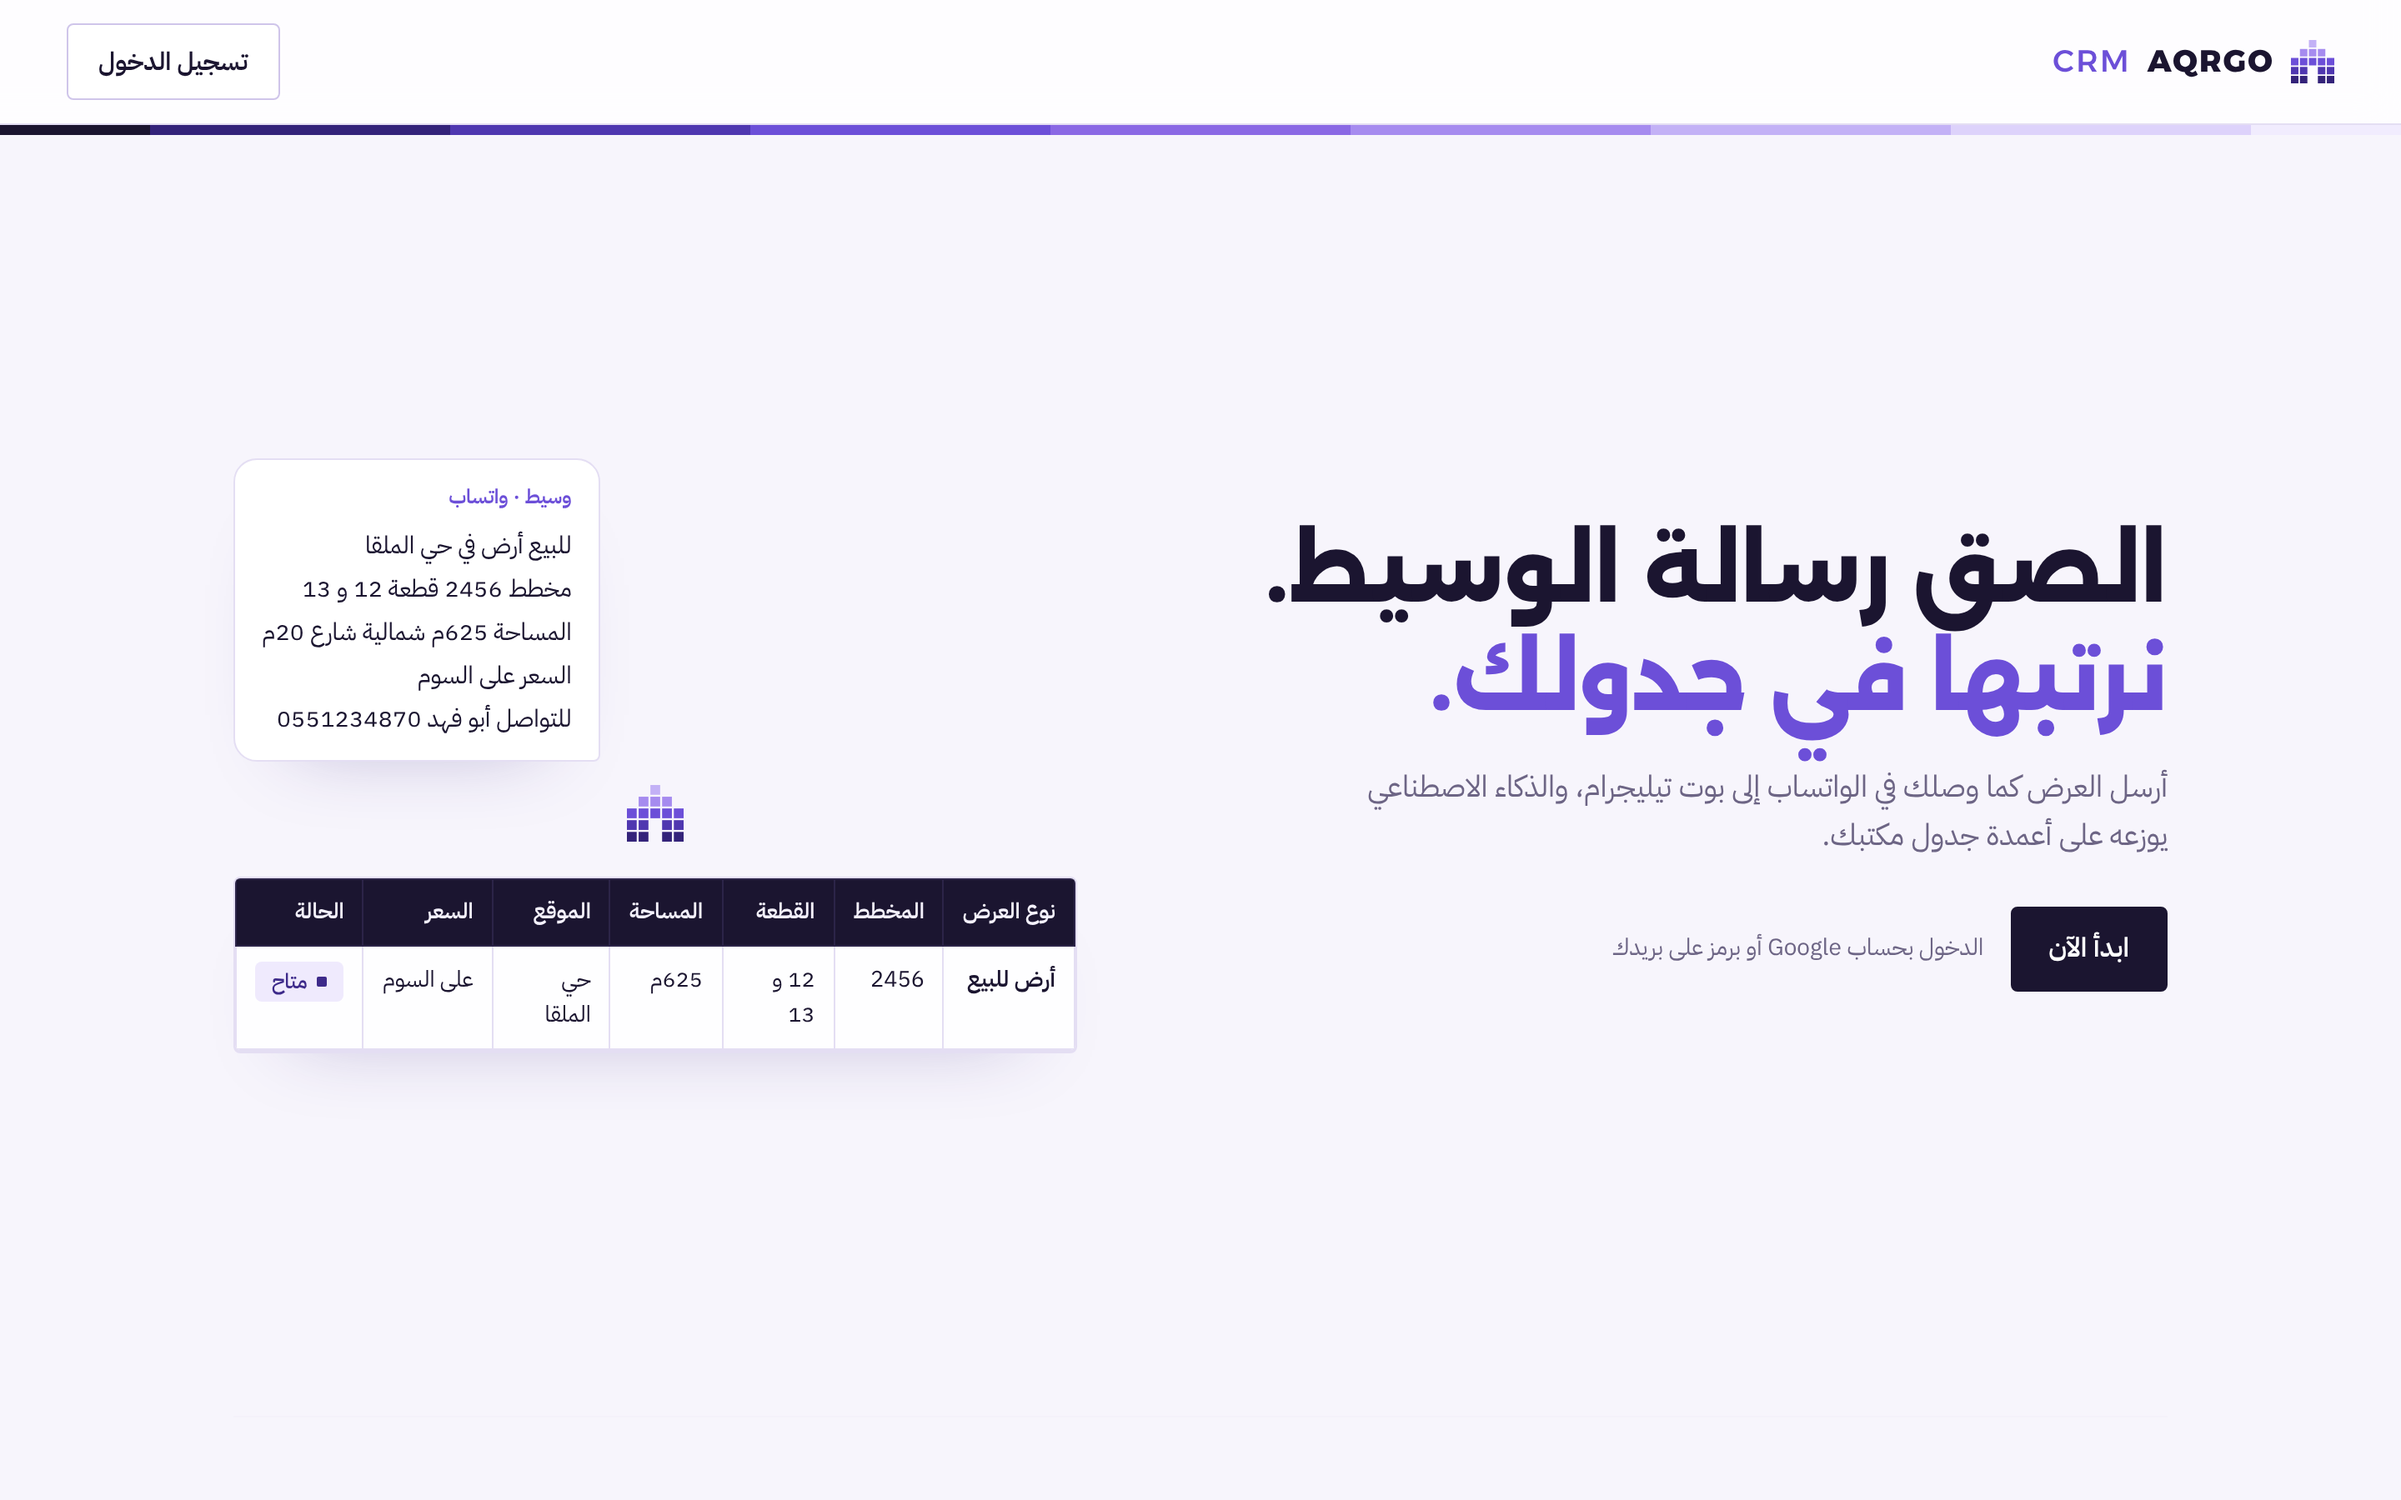
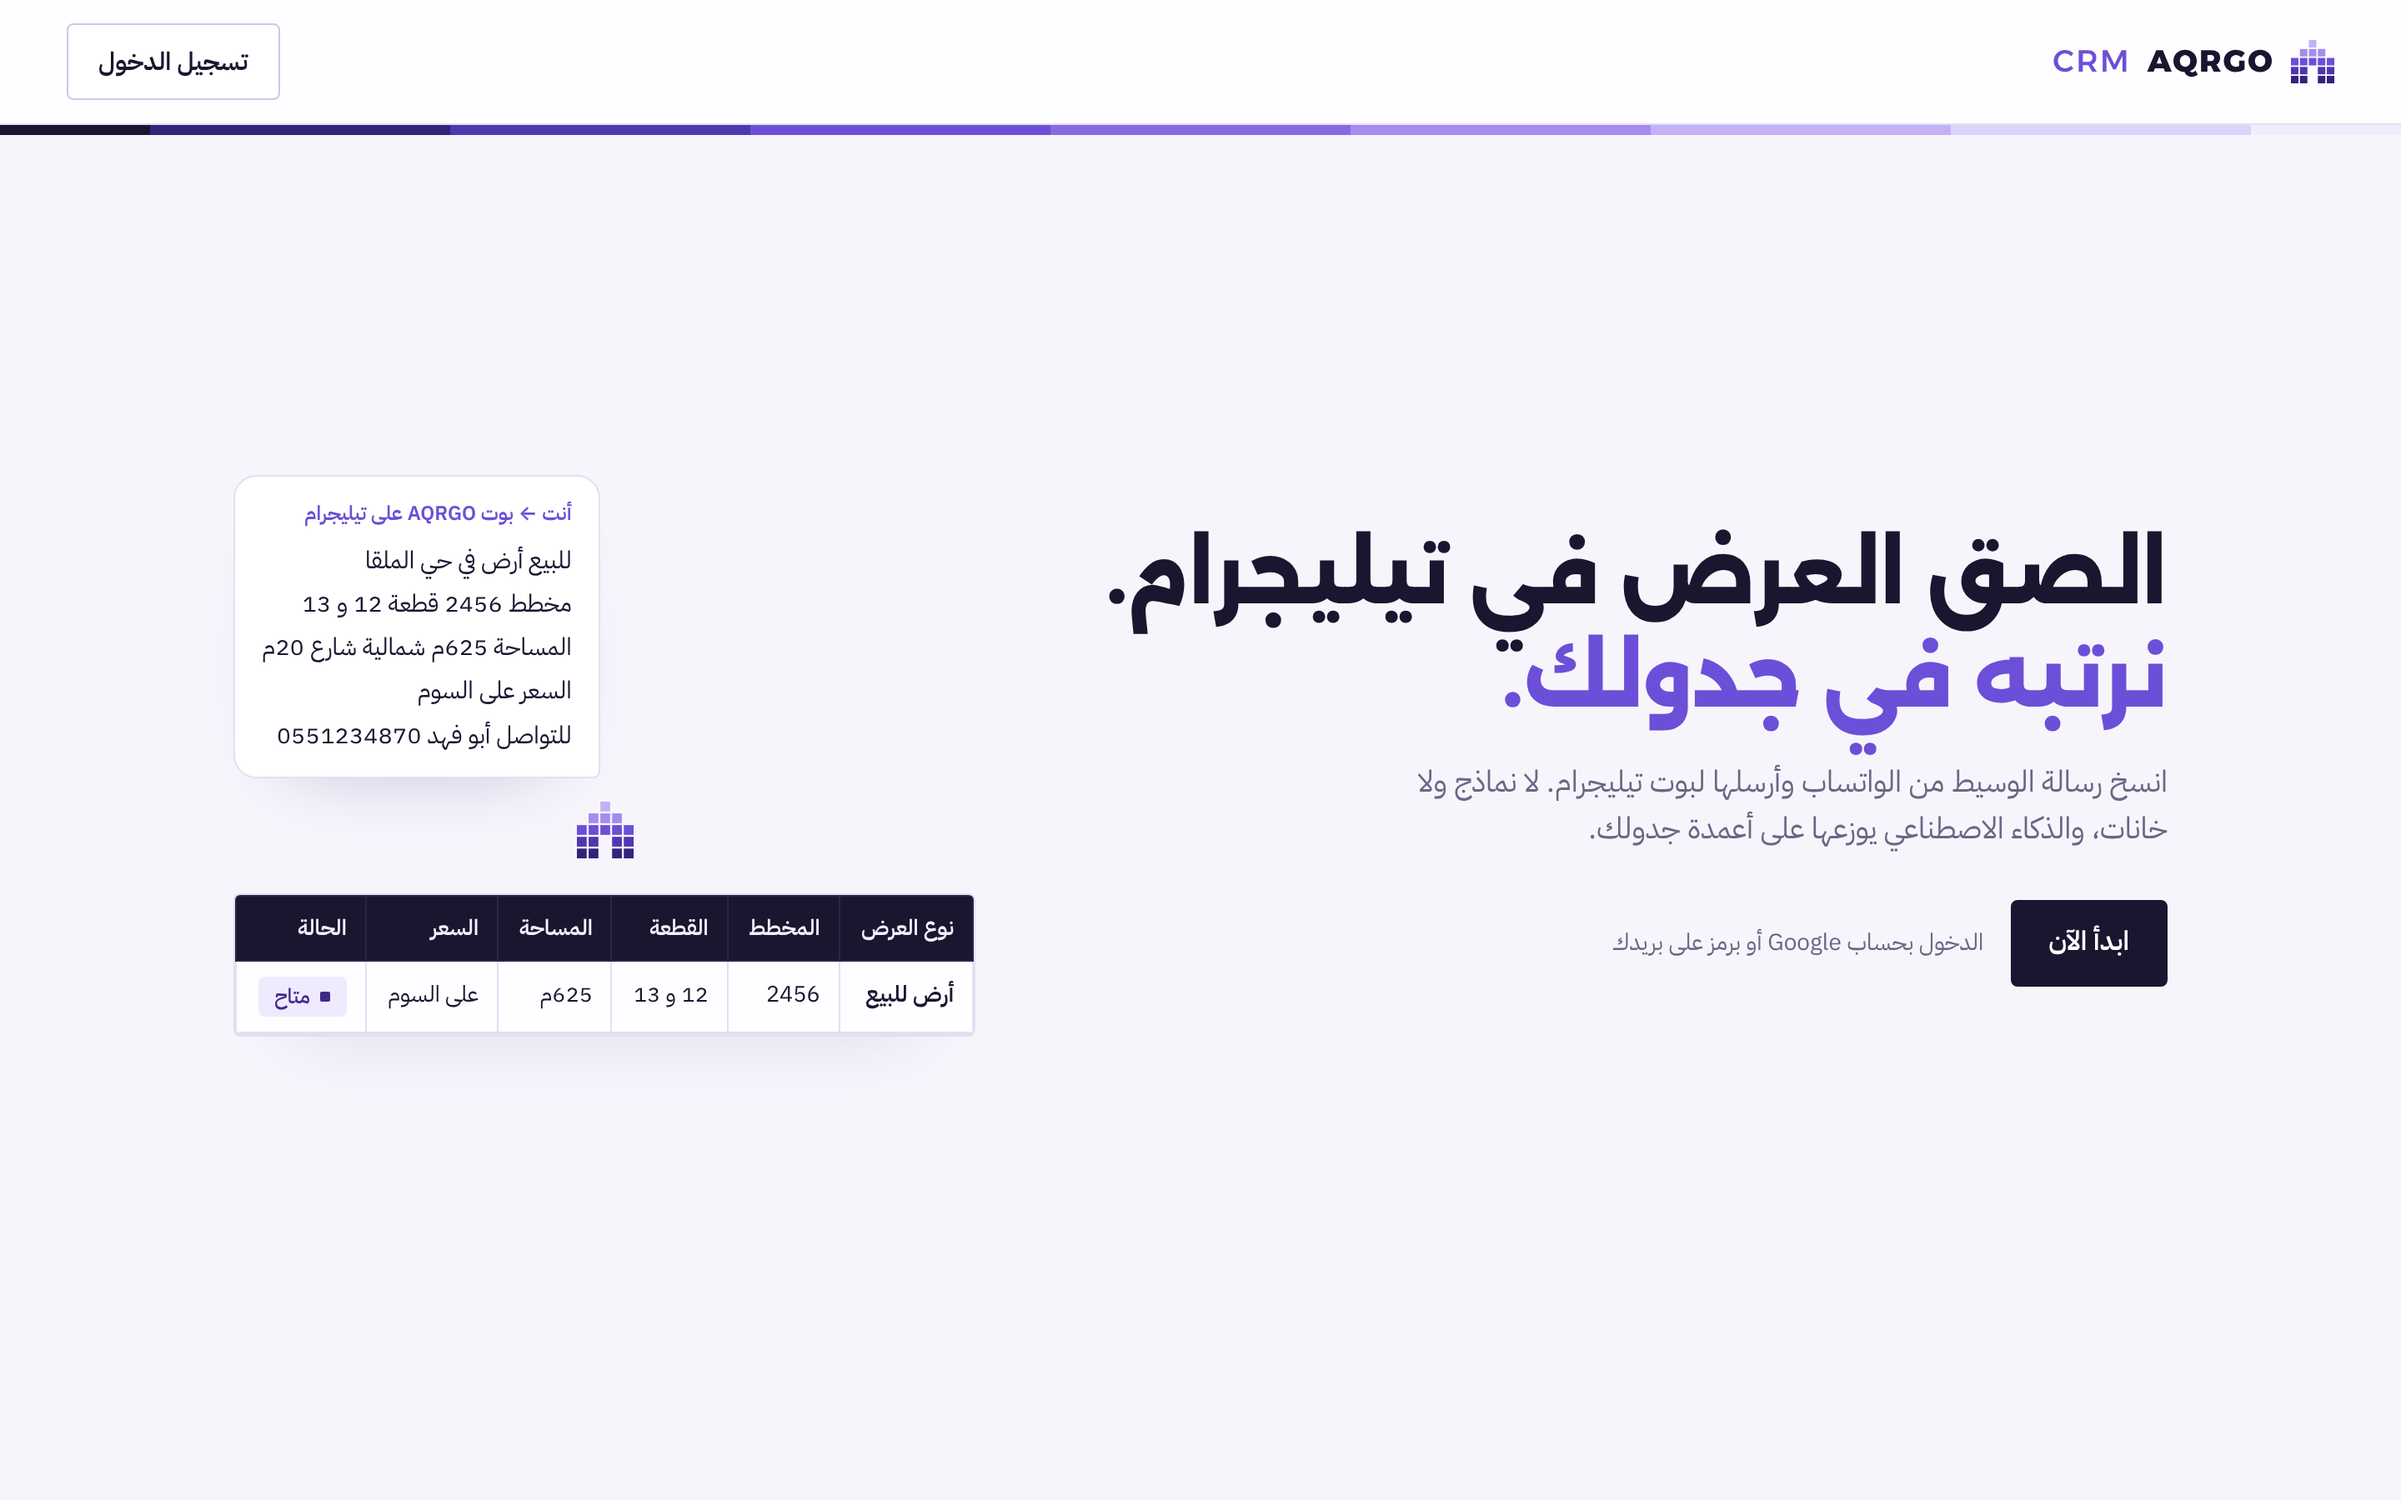
Landing page: lead with Telegram and how easy it is
Headline now names Telegram, and a new section shows a chat with the bot
next to four plain reasons it is easy (one message, understands dialect,
you confirm before saving, works from your phone).

Claude-Session: https://claude.ai/code/session_018Y5sV4ySWC7BHdGifjAdk6

diff --git a/crates/auth/templates/landing.html b/crates/auth/templates/landing.html
@@ -14,8 +14,8 @@
 {% block content %}
 <section class="l-hero">
   <div class="l-hero-copy">
-    <h1>الصق رسالة الوسيط.<br><em>نرتبها في جدولك.</em></h1>
-    <p class="lede">أرسل العرض كما وصلك في الواتساب إلى بوت تيليجرام، والذكاء الاصطناعي يوزعه على أعمدة جدول مكتبك.</p>
+    <h1>الصق العرض في تيليجرام.<br><em>نرتبه في جدولك.</em></h1>
+    <p class="lede">انسخ رسالة الوسيط من الواتساب وأرسلها لبوت تيليجرام. لا نماذج ولا خانات، والذكاء الاصطناعي يوزعها على أعمدة جدولك.</p>
     <div class="l-cta">
       <a class="btn primary big" href="/login">ابدأ الآن</a>
       <span class="muted">الدخول بحساب Google أو برمز على بريدك</span>
@@ -24,7 +24,7 @@
 
   <div class="l-demo" aria-label="مثال: رسالة وسيط تتحول إلى صف في الجدول">
     <div class="bubble">
-      <span class="bubble-from">وسيط · واتساب</span>
+      <span class="bubble-from">أنت ← بوت AQRGO على تيليجرام</span>
       للبيع أرض في حي الملقا<br>
       مخطط 2456 قطعة 12 و 13<br>
       المساحة 625م شمالية شارع 20م<br>
@@ -34,19 +34,42 @@
     <div class="demo-arrow" aria-hidden="true">{% include "logo_mark.html" %}</div>
     <div class="sheet demo-sheet">
       <table class="grid">
-        <thead><tr><th>نوع العرض</th><th>المخطط</th><th>القطعة</th><th>المساحة</th><th>الموقع</th><th>السعر</th><th>الحالة</th></tr></thead>
+        <thead><tr><th>نوع العرض</th><th>المخطط</th><th>القطعة</th><th>المساحة</th><th>السعر</th><th>الحالة</th></tr></thead>
         <tbody><tr>
-          <td class="strong">أرض للبيع</td><td>2456</td><td>12 و 13</td><td class="nowrap">625م</td><td>حي الملقا</td><td class="nowrap">على السوم</td><td><span class="pill available">متاح</span></td>
+          <td class="strong">أرض للبيع</td><td>2456</td><td>12 و 13</td><td class="nowrap">625م</td><td class="nowrap">على السوم</td><td><span class="pill available">متاح</span></td>
         </tr></tbody>
       </table>
     </div>
   </div>
 </section>
 
+<section class="l-tg reveal">
+  <div class="l-tg-copy">
+    <h2>مكتبك كله داخل تيليجرام</h2>
+    <p class="lede">التطبيق الذي تستخدمه كل يوم صار مدخل جدولك. لا برنامج تثبته ولا شيء تتعلمه.</p>
+    <ul class="ticks">
+      <li><b>رسالة واحدة تكفي.</b> الصقها كما هي، حتى لو فيها أكثر من قطعة أو عمارة.</li>
+      <li><b>يفهم العامية.</b> «على السوم» و«دورين ونص» و«مباشر مع الوكيل» تدخل في أماكنها.</li>
+      <li><b>أنت صاحب القرار.</b> البوت يعرض كل عرض مرتباً قبل حفظه، فتؤكد أو تعدّل بضغطة.</li>
+      <li><b>من جوالك في أي مكان.</b> في السيارة أو في الموقع، والجدول على الموقع يتحدث فوراً.</li>
+    </ul>
+    <a class="btn primary big" href="/login">ابدأ الآن</a>
+  </div>
+  <div class="tg-phone" aria-label="مثال لمحادثة مع بوت تيليجرام">
+    <div class="tg-head">{% include "logo_mark.html" %}<div><b>AQRGO</b><small>بوت</small></div></div>
+    <div class="tg-msg me">عمارة للبيع حي الخليج 7 شقق دورين ونص مصعد، دخل 600 ألف، السعر 7.2 مليون</div>
+    <div class="tg-msg bot">
+      <b>عمارة للبيع</b><br>الموقع: حي الخليج<br>الأدوار: دورين ونص · الوحدات: 7 شقق<br>الدخل: 600 ألف · السعر: 7.2 مليون
+      <div class="tg-keys"><span>✓ حفظ</span><span>تعديل</span></div>
+    </div>
+    <div class="tg-msg bot small">تم الحفظ في جدولك ✓</div>
+  </div>
+</section>
+
 <section class="l-how reveal">
   <h2>من رسالة إلى صف في ثلاث خطوات</h2>
   <ol class="steps">
-    <li><h3>أرسل</h3><p>الصق رسالة العرض في بوت تيليجرام، حتى لو فيها أكثر من قطعة.</p></li>
+    <li><h3>أرسل</h3><p>اربط حسابك بتيليجرام مرة واحدة، ثم الصق أي عرض في البوت.</p></li>
     <li><h3>راجع</h3><p>يعرض عليك البوت كل عرض مرتباً، فتحفظه بضغطة أو تعدّله.</p></li>
     <li><h3>اعمل</h3><p>ابحث في جدولك، اطبعه على A4، أو صدّره إلى Excel.</p></li>
   </ol>

diff --git a/crates/common/static/app.css b/crates/common/static/app.css
@@ -314,8 +314,8 @@ table.grid { border-collapse: collapse; width: 100%; min-width: 1200px; font-siz
 /* ---------- Landing page ---------- */
 .landing main { max-width: 1240px; margin: 0 auto; padding-top: 0; }
 .landing .topbar nav { flex: 1; }
-.l-hero { display: grid; grid-template-columns: minmax(0, 1.15fr) minmax(0, 1fr); gap: clamp(28px, 5vw, 72px); align-items: center; min-height: min(760px, calc(100dvh - 76px)); padding: 48px 0 64px; }
-.l-hero h1 { font-size: clamp(2rem, 3.6vw, 3.3rem); line-height: 1.25; font-weight: 800; margin: 0 0 18px; animation: rise .8s var(--ease-out) .1s both; }
+.l-hero { display: grid; grid-template-columns: minmax(0, 1.3fr) minmax(0, .9fr); gap: clamp(28px, 5vw, 72px); align-items: center; min-height: min(760px, calc(100dvh - 76px)); padding: 48px 0 64px; }
+.l-hero h1 { font-size: clamp(2rem, 3.4vw, 3.1rem); line-height: 1.25; font-weight: 800; margin: 0 0 18px; animation: rise .8s var(--ease-out) .1s both; }
 .l-hero h1 em { font-style: normal; color: var(--accent); }
 .l-hero .lede { font-size: 1.12rem; color: var(--muted); max-width: 46ch; margin: 0 0 28px; animation: rise .8s var(--ease-out) .2s both; }
 .l-cta { display: flex; align-items: center; gap: 16px; flex-wrap: wrap; animation: rise .8s var(--ease-out) .3s both; }
@@ -390,4 +390,26 @@ table.grid { border-collapse: collapse; width: 100%; min-width: 1200px; font-siz
   .landing .topbar .btn { padding: 8px 14px; }
   .l-cta .btn { width: 100%; }
   .demo-sheet th:nth-child(n+5), .demo-sheet td:nth-child(n+5) { display: none; }
+}
+
+/* Telegram section: copy beside a real-looking chat with the bot. */
+.l-tg { display: grid; grid-template-columns: minmax(0, 1.1fr) minmax(0, .9fr); gap: clamp(28px, 6vw, 88px); align-items: center; padding: clamp(48px, 8vw, 112px) 0; border-top: 1px solid var(--line); }
+.l-tg h2 { font-size: clamp(1.7rem, 3.2vw, 2.6rem); margin: 0 0 12px; }
+.l-tg .lede { color: var(--muted); font-size: 1.08rem; margin: 0 0 24px; max-width: 48ch; }
+.ticks { list-style: none; margin: 0 0 28px; padding: 0; display: grid; gap: 14px; }
+.ticks li { position: relative; padding-inline-start: 30px; color: var(--muted); }
+.ticks li b { color: var(--ink); }
+.ticks li::before { content: ""; position: absolute; inset-inline-start: 0; top: .45em; width: 14px; height: 14px; background: linear-gradient(135deg, var(--l4), var(--l7)); }
+.tg-phone { background: #17212b; border-radius: 22px; padding: 14px 14px 20px; box-shadow: 0 40px 80px -40px var(--shadow); display: grid; gap: 10px; max-width: 380px; justify-self: center; width: 100%; }
+.tg-head { display: flex; align-items: center; gap: 10px; color: #fff; padding: 4px 6px 12px; border-bottom: 1px solid #22303d; }
+.tg-head .mark { width: 30px; height: 30px; background: #1b1530; padding: 5px; border-radius: 50%; }
+.tg-head small { display: block; color: #7d8b99; font-size: 12px; }
+.tg-msg { max-width: 86%; padding: 9px 12px; border-radius: 12px; font-size: 13.5px; line-height: 1.7; color: #e9eef3; animation: rise .5s var(--ease-out) both; }
+.tg-msg.me { justify-self: start; background: #2b5278; border-end-start-radius: 4px; animation-delay: .2s; }
+.tg-msg.bot { justify-self: end; background: #182533; border: 1px solid #22303d; border-end-end-radius: 4px; animation-delay: .9s; }
+.tg-msg.small { animation-delay: 1.6s; font-size: 13px; }
+.tg-keys { display: flex; gap: 6px; margin-top: 8px; }
+.tg-keys span { flex: 1; text-align: center; background: #2b3a4a; border-radius: 6px; padding: 5px; font-size: 12.5px; }
+@media (max-width: 860px) {
+  .l-tg { grid-template-columns: 1fr; }
 }
